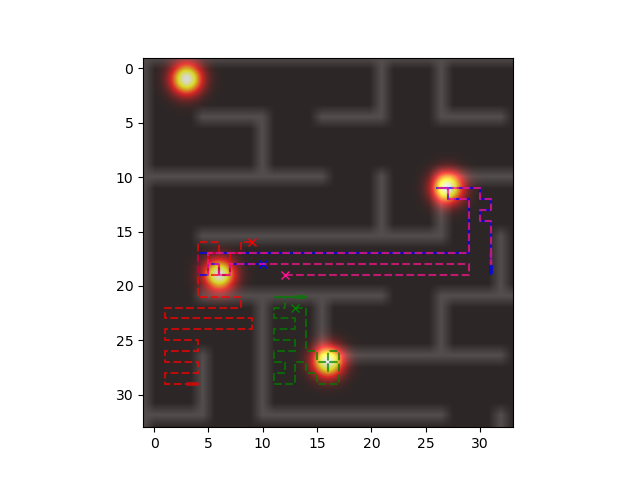
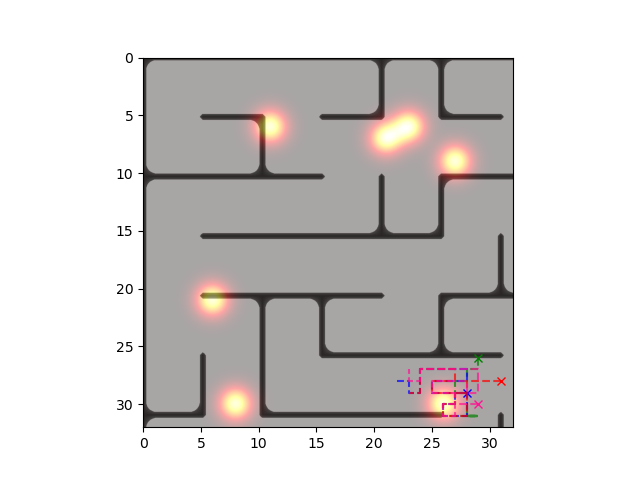
Added fixes for the plotting

diff --git a/test/analyze_real_world_setup_results.py b/test/analyze_real_world_setup_results.py
@@ -63,17 +63,14 @@ def analyze_results(
 
         plt.plot(
             [x[1] for x in vulcan_path],
-            [
-                reward_map.num_of_rows - x[0] for x in vulcan_path
-            ],  # Only if origin is lower
+            [x[0] for x in vulcan_path],
             color=agent_colors[agent_idx],
             linestyle="--",
             alpha=0.7,
         )
         plt.plot(
             agent_locations[agent_idx][1],
-            reward_map.num_of_rows
-            - agent_locations[agent_idx][0],  # Only if origin is lower
+            agent_locations[agent_idx][0],
             color=agent_colors[agent_idx],
             marker="x",
         )
@@ -94,16 +91,16 @@ def analyze_results(
 
     plt.imshow(
         map_viz[0],
-        extent=(-1, reward_map.num_of_rows + 1, reward_map.num_of_cols + 1, -1),
+        extent=(0, reward_map.num_of_cols, reward_map.num_of_rows, 0),
         cmap="hot",
         alpha=0.7,
     )
     if len(map_viz) > 1:
         plt.imshow(
-            map_viz[1],
-            extent=(-1, reward_map.num_of_cols + 1, reward_map.num_of_rows + 1, -1),
+            1.0 - map_viz[1],
+            extent=(0, reward_map.num_of_cols, reward_map.num_of_rows, 0),
             cmap="binary",
-            origin="lower",
+            # origin="lower",
             alpha=0.5,
         )
 
@@ -155,19 +152,19 @@ def visualize_path(
     if len(map_viz) == 1:
         ax.imshow(
             map_viz[0],
-            extent=(-1, reward_map.num_of_cols + 1, reward_map.num_of_rows + 1, -1),
+            extent=(0, reward_map.num_of_cols, reward_map.num_of_rows, 0),
             cmap="hot",
         )
     else:
         ax.imshow(
             map_viz[0],
-            extent=(-1, reward_map.num_of_cols + 1, reward_map.num_of_rows + 1, -1),
+            extent=(0, reward_map.num_of_cols, reward_map.num_of_rows, 0),
             cmap="hot",
             alpha=0.7,
         )
         ax.imshow(
-            map_viz[1],
-            extent=(-1, reward_map.num_of_cols + 1, reward_map.num_of_rows + 1, -1),
+            1.0 - map_viz[1],
+            extent=(0, reward_map.num_of_cols, reward_map.num_of_rows, 0),
             cmap="binary",
             alpha=0.5,
         )
@@ -176,21 +173,22 @@ def visualize_path(
     num_of_agents = len(paths)
 
     lines = []
+    starts = []
     for agent in range(num_of_agents):
         (line,) = ax.plot([], [], lw=2, color=agent_colors[agent], ls="--", alpha=0.7)
+        (start,) = ax.plot([], [], lw=2, color=agent_colors[agent], marker="x", alpha=0.7)
         lines.append(line)
+        starts.append(start)
 
     def init():
-        for line in lines:
-            line.set_data([], [])
-        return lines
+        for i, path in enumerate(paths):
+            starts[i].set_data(path[0][1], path[0][0])
+        return starts
 
     def update(frame):
         for i, path in enumerate(paths):
             x_data = [point[1] for point in path[: frame + 1]]
-            y_data = [
-                reward_map.num_of_rows - point[0] for point in path[: frame + 1]
-            ]  # Only if origin is lower
+            y_data = [point[0] for point in path[: frame + 1]]
             lines[i].set_data(x_data, y_data)
         return lines
 
@@ -620,17 +618,15 @@ if __name__ == "__main__":
 
     # (rows, columns) -> (y, x) for images!
 
-    y = np.linspace(-1, reward_map.num_of_rows + 1, 1000)
-    x = np.linspace(-1, reward_map.num_of_cols + 1, 1000)
+    y = np.linspace(0, reward_map.num_of_rows, 1000)
+    x = np.linspace(0, reward_map.num_of_cols, 1000)
     xx, yy = np.meshgrid(x, y)
     meshgrid = np.dstack((xx, yy))
     zz = np.zeros_like(xx)
     for i in range(len(reward_map.locations)):
         linear_location = reward_map.locations[i]
         location_coord = reward_map.get_coordinate(linear_location)
-        location_coord = np.array(
-            [location_coord[1], reward_map.num_of_rows - location_coord[0]]
-        )
+        location_coord = np.array([location_coord[1], location_coord[0]])
         gaussian = reward_map.means[i] * multivariate_normal.pdf(
             meshgrid, mean=location_coord, cov=1
         )
@@ -640,11 +636,12 @@ if __name__ == "__main__":
     agent_colors = ["g", "b", "r", "deeppink", "y", "m", "c", "w"]
 
     if maze is not None:
-        x_obstacle = np.linspace(-1, reward_map.num_of_cols + 1, maze.shape[1])
-        y_obstacle = np.linspace(-1, reward_map.num_of_rows + 1, maze.shape[0])
+        x_obstacle = np.linspace(0, reward_map.num_of_cols, maze.shape[1])
+        y_obstacle = np.linspace(0, reward_map.num_of_rows, maze.shape[0])
 
         obstacles_interpolated = interp2d(x_obstacle, y_obstacle, maze, kind="linear")
         zz_obstacle = obstacles_interpolated(x, y)
+        zz_obstacle[np.where(zz_obstacle >= 0.25)] = 1.0
 
     analyze_results(
         sample_to_visualize,
@@ -653,7 +650,7 @@ if __name__ == "__main__":
         reward_map,
         agent_colors,
         [zz, zz_obstacle] if maze is not None else [zz],
-        figures_base_path + "sa-ca-vulcan-" + args.results_pkl[:-4],
+        figures_base_path + "rh-ma-vulcan-" + args.results_pkl[:-4],
         type_of_analysis="multi",
     )
 

diff --git a/test/analyze_mapf_suite_results.py b/test/analyze_mapf_suite_results.py
@@ -66,14 +66,14 @@ def analyse_results(
 
     plt.imshow(
         map_viz[0],
-        extent=(-1, reward_map.num_of_cols + 1, reward_map.num_of_rows + 1, -1),
+        extent=(0, reward_map.num_of_cols, reward_map.num_of_rows, 0),
         cmap="hot",
         alpha=0.7,
     )
     if len(map_viz) > 1:
         plt.imshow(
-            map_viz[1],
-            extent=(-1, reward_map.num_of_cols + 1, reward_map.num_of_rows + 1, -1),
+            1.0 - map_viz[1],
+            extent=(0, reward_map.num_of_cols, reward_map.num_of_rows, 0),
             cmap="binary",
             alpha=0.5,
         )
@@ -102,19 +102,19 @@ def visualize_path(
     if len(map_viz) == 1:
         ax.imshow(
             map_viz[0],
-            extent=(-1, reward_map.num_of_cols + 1, reward_map.num_of_rows + 1, -1),
+            extent=(0, reward_map.num_of_cols, reward_map.num_of_rows, 0),
             cmap="hot",
         )
     else:
         ax.imshow(
             map_viz[0],
-            extent=(-1, reward_map.num_of_cols + 1, reward_map.num_of_rows + 1, -1),
+            extent=(0, reward_map.num_of_cols, reward_map.num_of_rows, 0),
             cmap="hot",
             alpha=0.7,
         )
         ax.imshow(
-            map_viz[1],
-            extent=(-1, reward_map.num_of_cols + 1, reward_map.num_of_rows + 1, -1),
+            1.0 - map_viz[1],
+            extent=(0, reward_map.num_of_cols, reward_map.num_of_rows, 0),
             cmap="binary",
             alpha=0.5,
         )
@@ -123,14 +123,17 @@ def visualize_path(
     num_of_agents = len(paths)
 
     lines = []
+    starts = []
     for agent in range(num_of_agents):
         (line,) = ax.plot([], [], lw=2, color=agent_colors[agent], ls="--", alpha=0.7)
+        (start,) = ax.plot([], [], lw=2, color=agent_colors[agent], marker="x", alpha=0.7)
         lines.append(line)
+        starts.append(start)
 
     def init():
-        for line in lines:
-            line.set_data([], [])
-        return lines
+        for i, path in enumerate(paths):
+            starts[i].set_data(path[0][1], path[0][0])
+        return starts
 
     def update(frame):
         for i, path in enumerate(paths):
@@ -552,8 +555,8 @@ if __name__ == "__main__":
 
     # (rows, columns) -> (y, x) for images!
 
-    y = np.linspace(-1, reward_map.num_of_rows + 1, 1000)
-    x = np.linspace(-1, reward_map.num_of_cols + 1, 1000)
+    y = np.linspace(0, reward_map.num_of_rows, 1000)
+    x = np.linspace(0, reward_map.num_of_cols, 1000)
     xx, yy = np.meshgrid(x, y)
     meshgrid = np.dstack((xx, yy))
     zz = np.zeros_like(xx)
@@ -570,11 +573,12 @@ if __name__ == "__main__":
     agent_colors = ["g", "b", "r", "deeppink", "y", "m", "c", "w"]
 
     if maze is not None:
-        y_obstacle = np.linspace(-1, reward_map.num_of_rows + 1, maze.shape[0])
-        x_obstacle = np.linspace(-1, reward_map.num_of_cols + 1, maze.shape[1])
+        y_obstacle = np.linspace(0, reward_map.num_of_rows, maze.shape[0])
+        x_obstacle = np.linspace(0, reward_map.num_of_cols, maze.shape[1])
 
         obstacles_interpolated = interp2d(x_obstacle, y_obstacle, maze, kind="linear")
         zz_obstacle = obstacles_interpolated(x, y)
+        zz_obstacle[np.where(zz_obstacle >= 0.25)] = 1.0
 
     # Analysis for multi-agent
     analyse_results(
@@ -584,7 +588,7 @@ if __name__ == "__main__":
         reward_map,
         agent_colors,
         [zz, zz_obstacle] if maze is not None else [zz],
-        figures_base_path + "ma-vulcan-" + args.results_pkl[:-4],
+        figures_base_path + "rh-ma-vulcan-" + args.results_pkl[:-4],
         type_of_analysis="multi",
     )
 

diff --git a/test/test_mapf_suite.py b/test/test_mapf_suite.py
@@ -128,7 +128,7 @@ def setup_experiment_parameters(
             maze.shape[0],
             maze.shape[1],
             30,
-            8,
+            4,
             150,
             5,
         )
